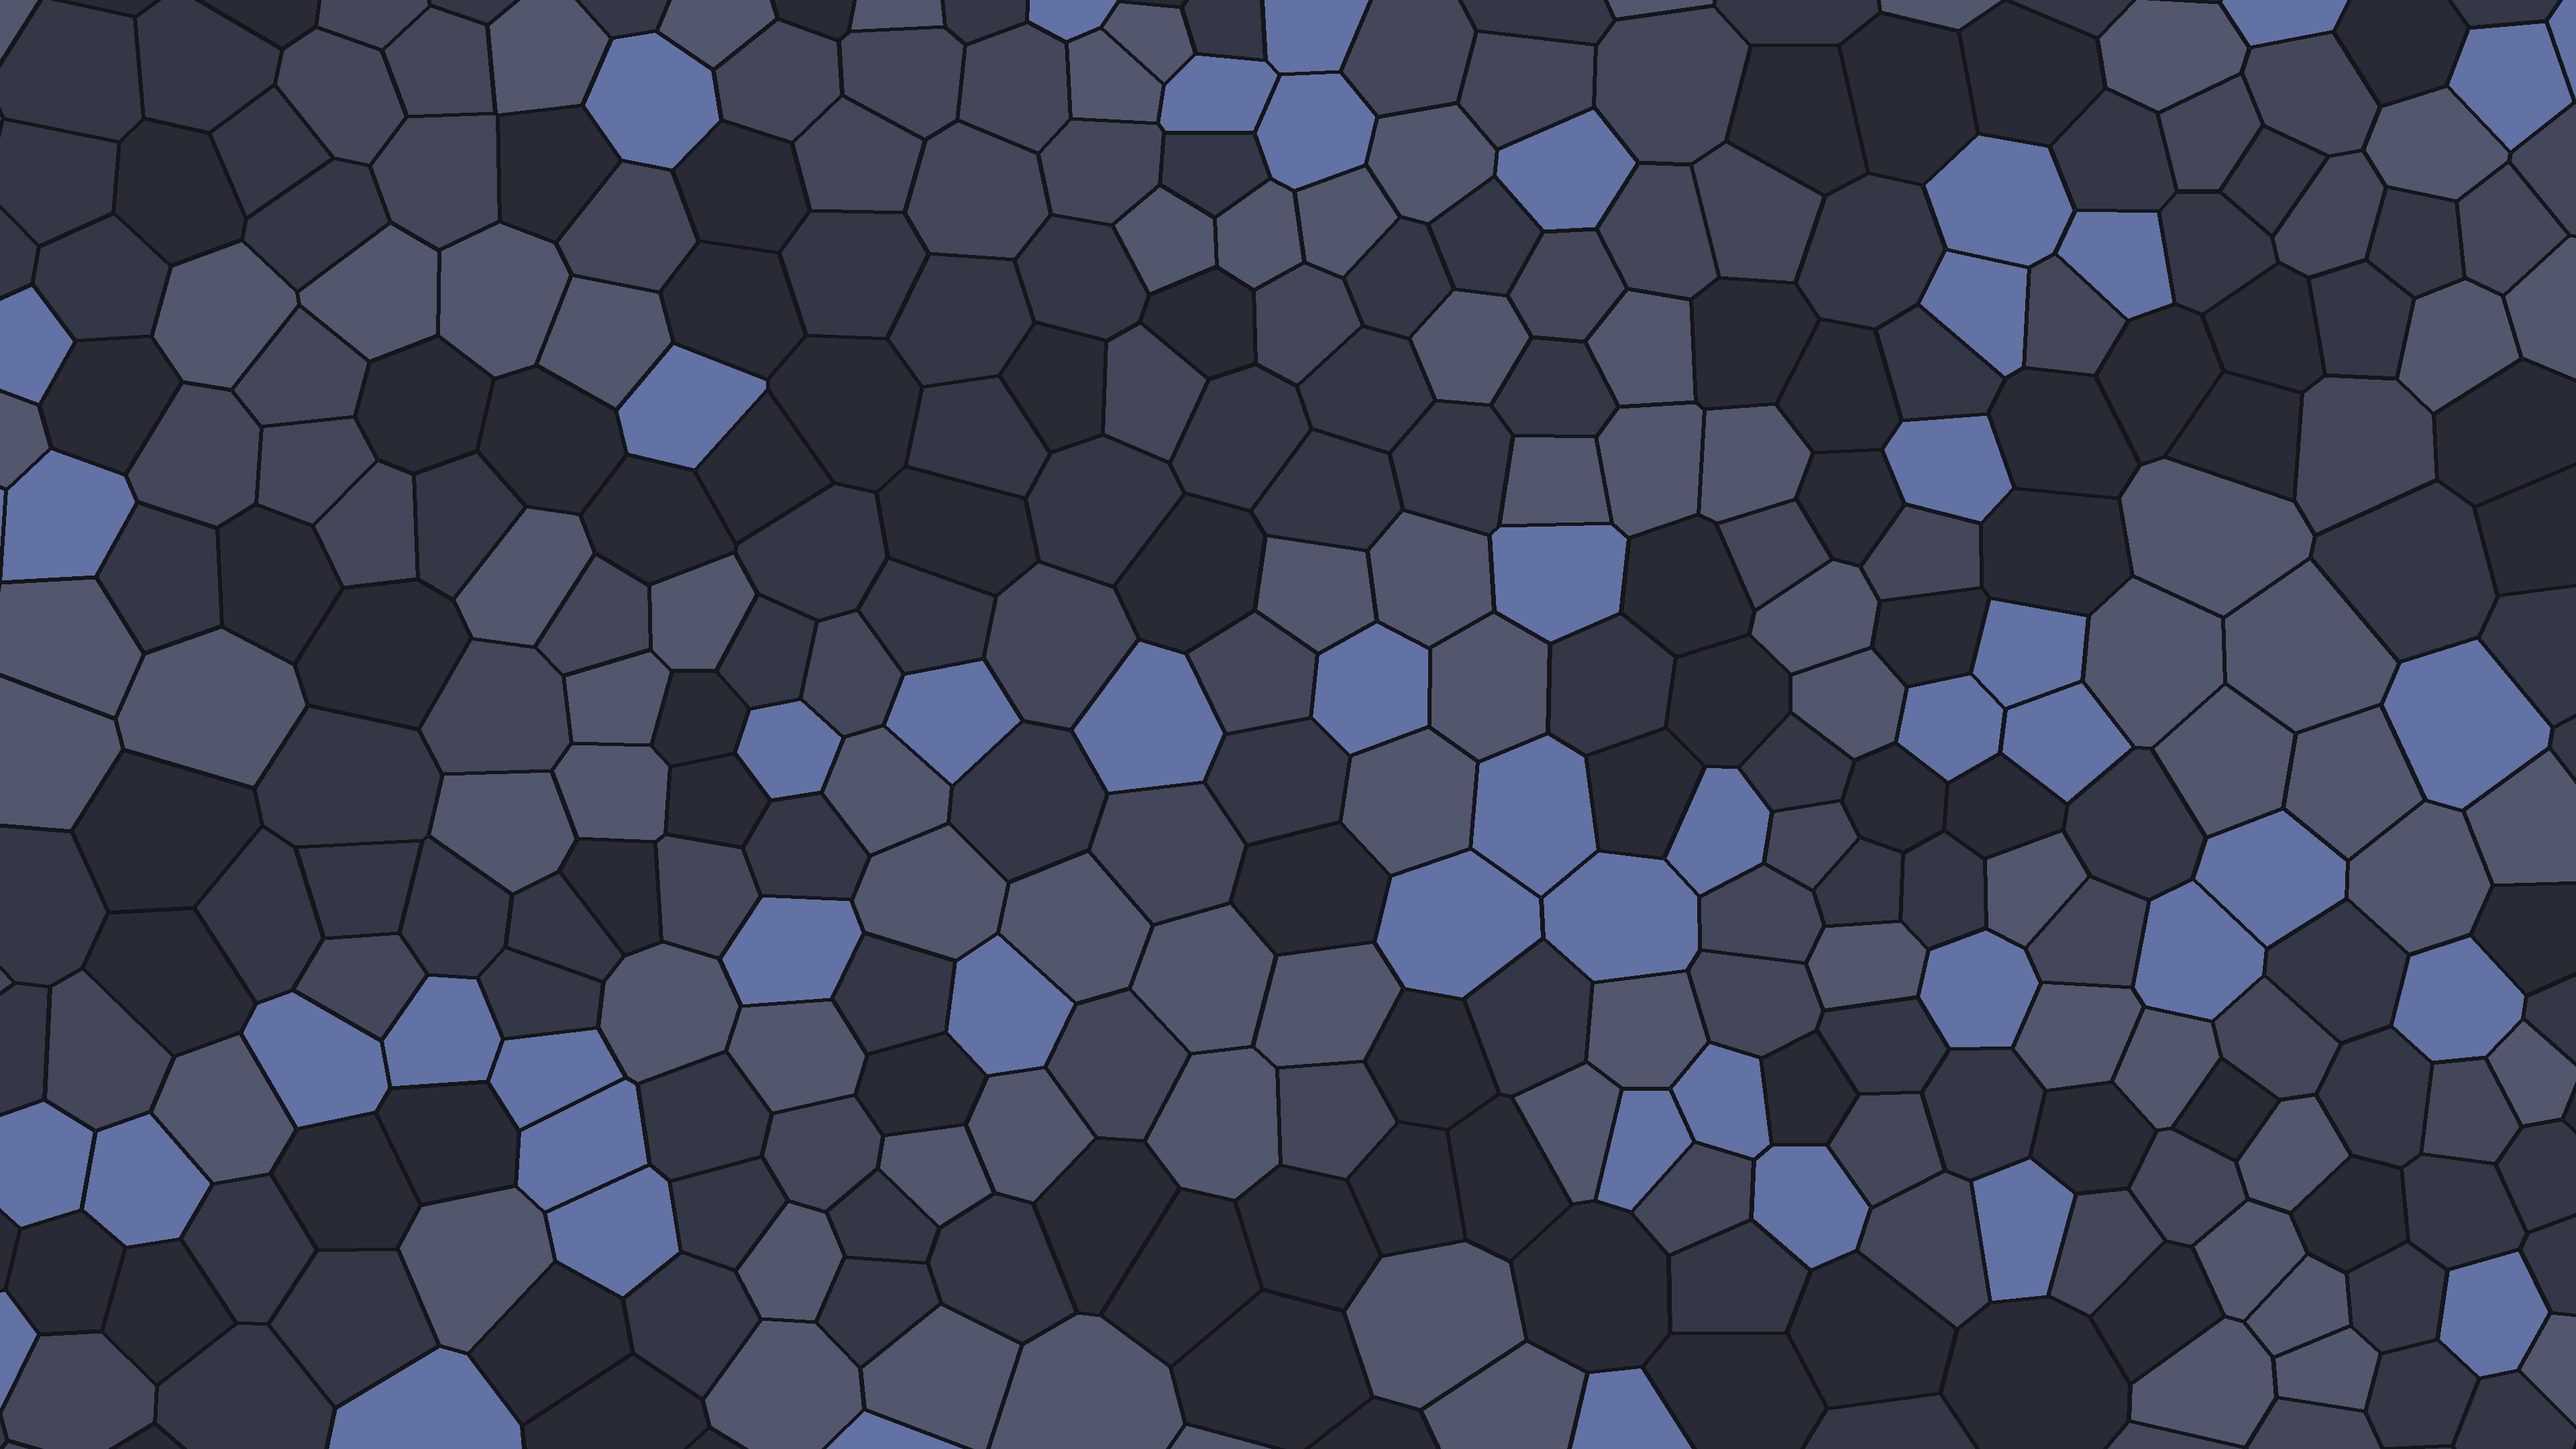
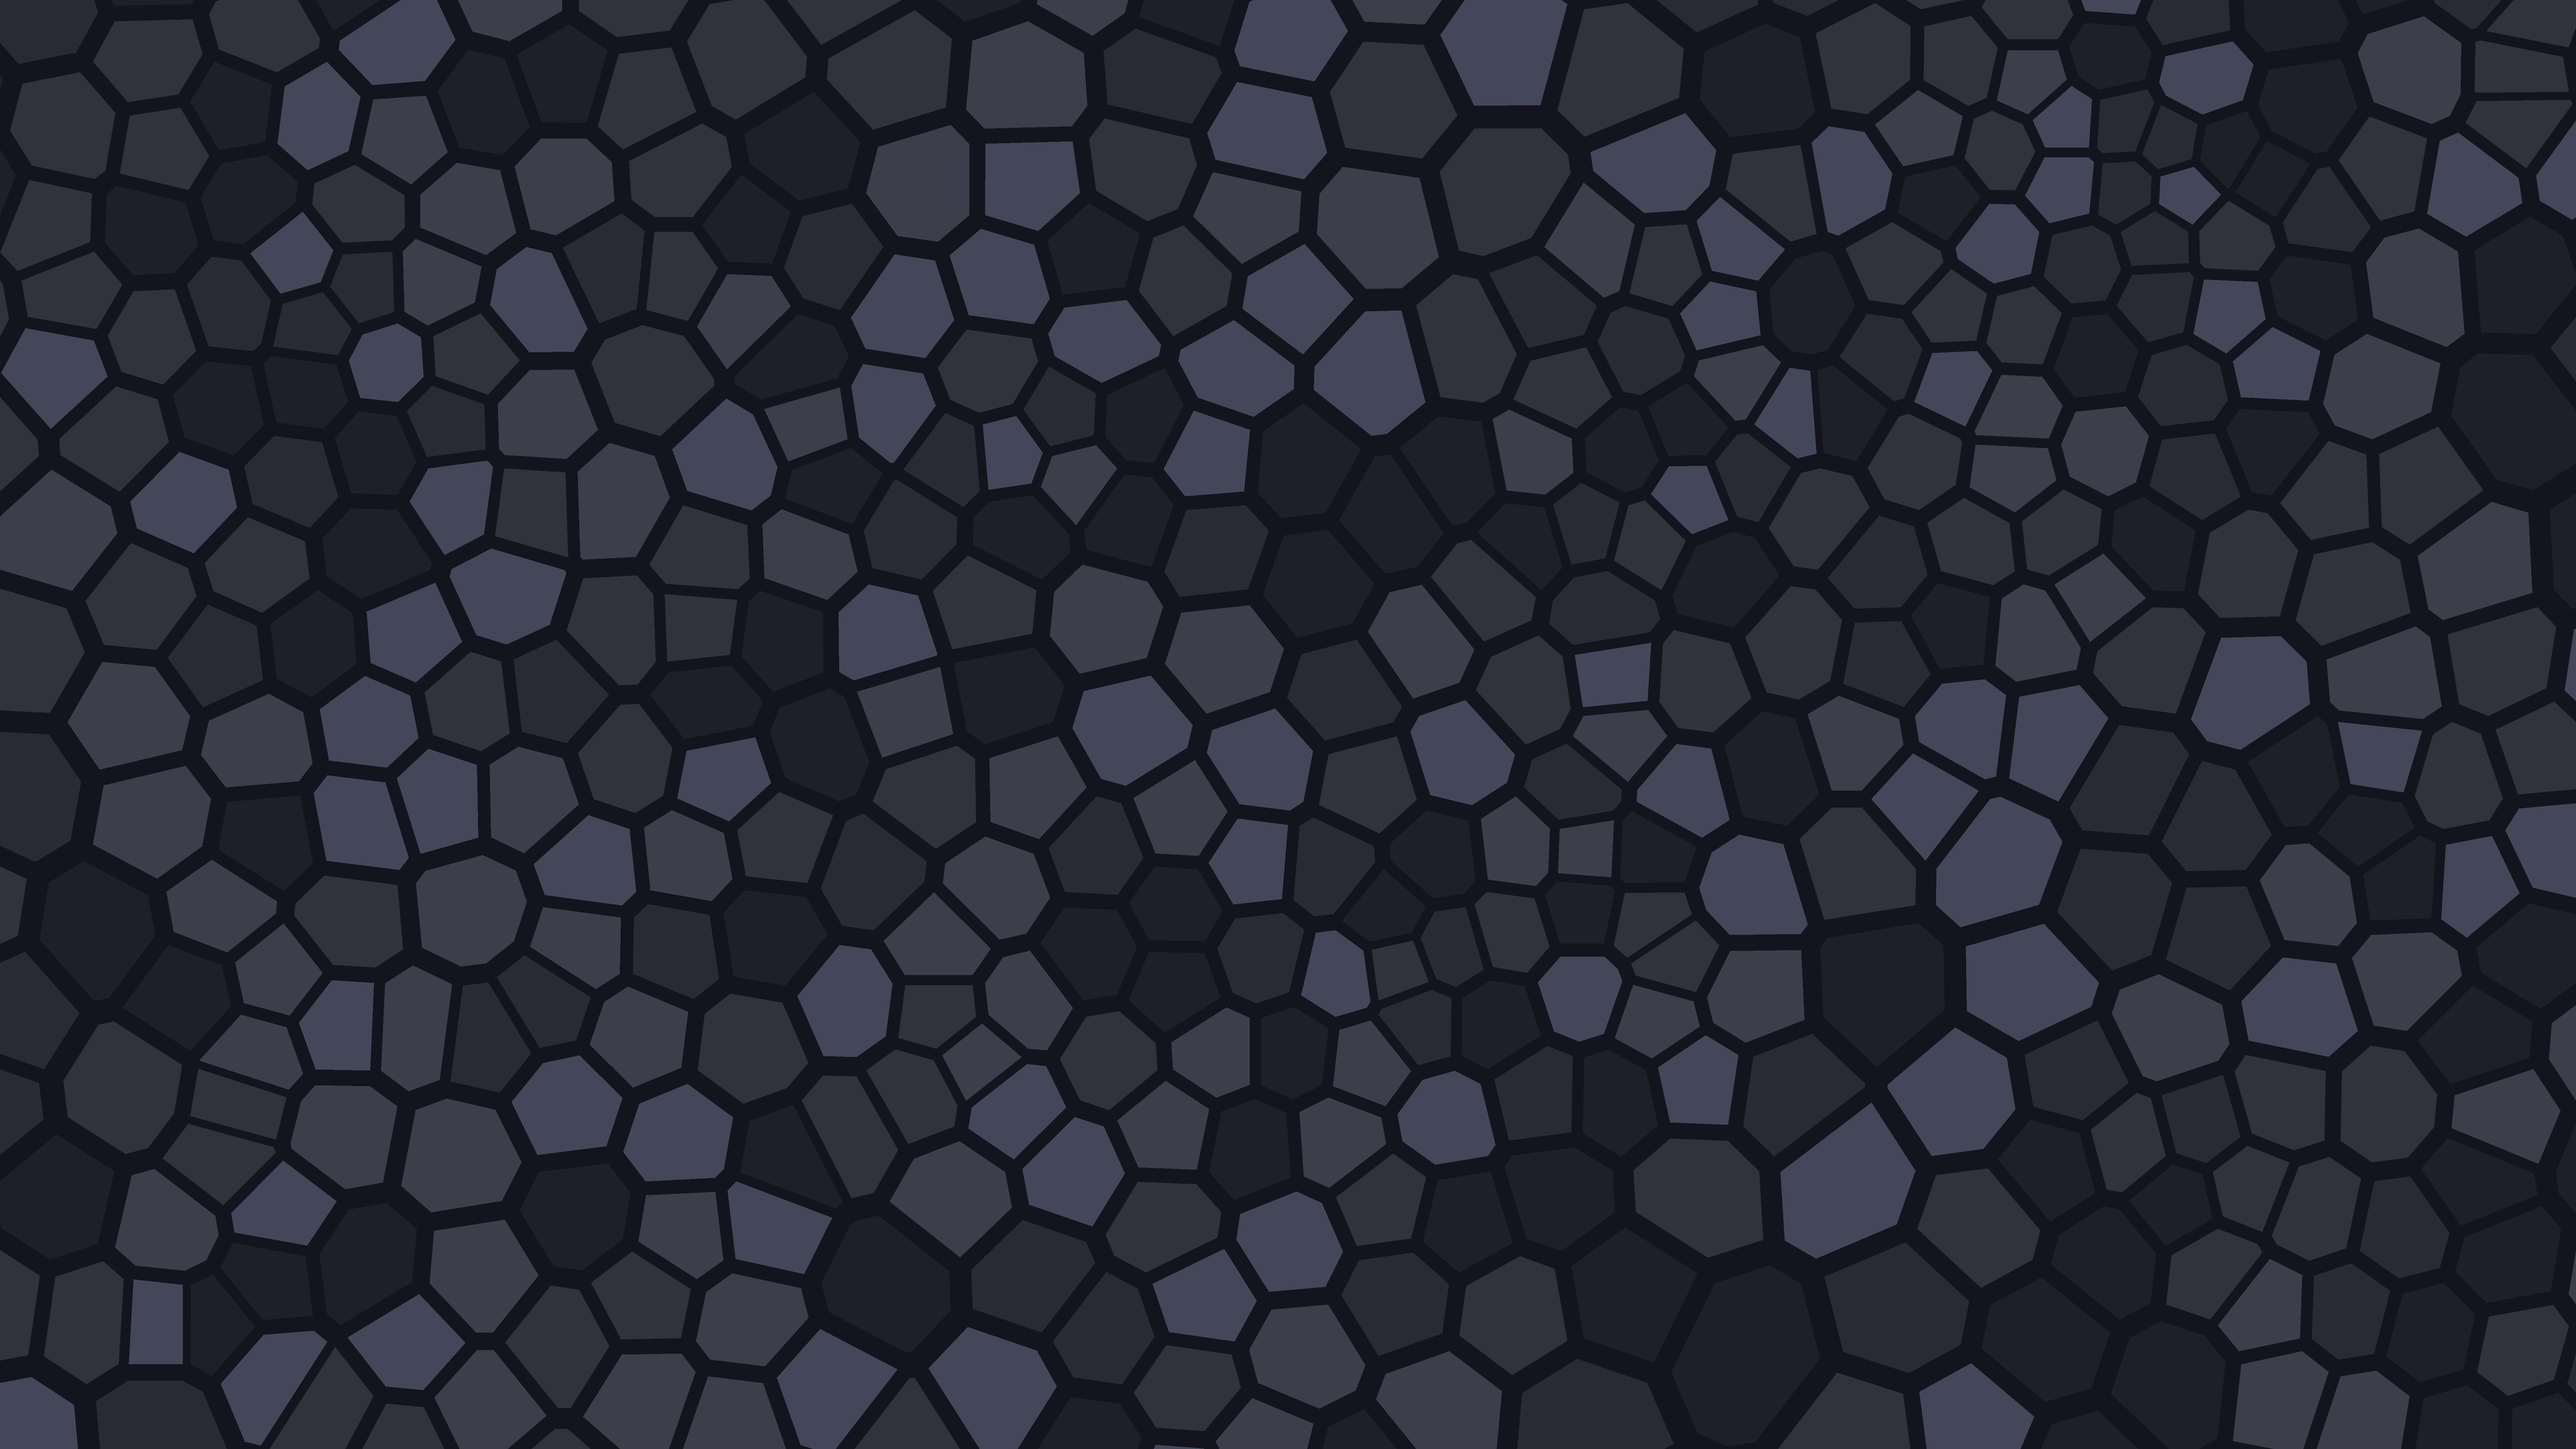
..

diff --git a/utils/wallpaper_gen.py b/utils/wallpaper_gen.py
@@ -6,45 +6,40 @@ from scipy.spatial import Voronoi
 from PIL import Image, ImageDraw
 import random
 
-# --- Configuration ---
+# --- CONFIGURATION ---
 WIDTH = 3840
 HEIGHT = 2160
-NUM_SEEDS = 600
-RELAXATION_ITERATIONS = 5
-PADDING_WIDTH = 6  # Spacing between tiles
-OUTPUT_FILENAME = "dracula_voronoi_tiling.png"
+SCALE_FACTOR = 2  # Render at 2x for anti-aliasing
+NUM_SEEDS = 600   # Density of tiles
+RELAXATION_STEPS = 5 # Higher = more uniform (hexagonal), Lower = more random
+PADDING_RATIO = 0.85 # 1.0 = touching, < 1.0 = gaps
 
-# Dracula-inspired dark grayscale palette
-# Background (Margins)
-COLOR_BG = "#15161A"  # Very dark, almost black for contrast
+# Dracula-ish Grayscale Palette
+# Background (Grout)
+COLOR_BG = (20, 20, 30) 
 
-# 5 Tile Colors (Dark Grayscale with Dracula tint)
+# Tile Colors (Dark, Cool Grays)
 TILE_PALETTE = [
-    "#282a36",  # Dracula Background
-    "#343746",  # Offset 1
-    "#44475a",  # Dracula Current Line
-    "#52576e",  # Offset 2
-    "#6272a4",  # Dracula Comment (Bluish Grey)
+    (40, 42, 54),   # Dracula Background
+    (68, 71, 90),   # Current Line
+    (50, 50, 60),   # Darker Variant
+    (60, 62, 75),   # Mid Variant
+    (30, 31, 40),   # Deep Variant
 ]
 
-def generate_voronoi_diagram(width, height, num_seeds):
+def generate_voronoi_seeds(width, height, num_points, steps):
     """
-    Generates a Voronoi diagram with Lloyd's relaxation for uniformity.
+    Generates points and applies Lloyd's relaxation to regularize them.
+    Simulates surface tension forces in foam.
     """
-    # Create a buffer area to ensure edge tiles are closed
-    # We generate points in a coordinate system slightly larger than the image
-    buffer_x = width * 0.2
-    buffer_y = height * 0.2
-    
-    # Initialize random seeds
-    points = np.random.rand(num_seeds, 2)
-    points[:, 0] = points[:, 0] * (width + 2 * buffer_x) - buffer_x
-    points[:, 1] = points[:, 1] * (height + 2 * buffer_y) - buffer_y
+    # Generate points over a slightly larger area to ensure edges are covered
+    # and to avoid edge effects from the Voronoi algorithm
+    margin = 500
+    points = np.random.rand(num_points, 2)
+    points[:,0] = points[:,0] * (width + 2*margin) - margin
+    points[:,1] = points[:,1] * (height + 2*margin) - margin
 
-    # Lloyd's Relaxation: Iteratively move points to the centroid of their region
-    # This regularizes the cell sizes, making them "roughly the same size"
-    # while maintaining a non-periodic, organic structure.
-    for _ in range(RELAXATION_ITERATIONS):
+    for _ in range(steps):
         vor = Voronoi(points)
         new_points = []
         for i, region_index in enumerate(vor.point_region):
@@ -55,65 +50,68 @@ def generate_voronoi_diagram(width, height, num_seeds):
             
             # Get vertices for this region
             polygon = [vor.vertices[i] for i in region]
-            poly_arr = np.array(polygon)
             
-            # Calculate centroid
+            # Calculate centroid of the polygon
+            poly_arr = np.array(polygon)
             centroid = np.mean(poly_arr, axis=0)
             new_points.append(centroid)
         points = np.array(new_points)
-
-    # Final Voronoi computation
+        
     return Voronoi(points)
 
-def draw_tiling(vor, width, height):
+def shrink_polygon(vertices, factor):
     """
-    Draws the Voronoi regions onto a PIL image.
+    Shrinks a polygon towards its centroid to create padding.
     """
-    # Create image with background color (this serves as the margin)
-    img = Image.new("RGB", (width, height), COLOR_BG)
-    draw = ImageDraw.Draw(img)
-
-    for region_index in vor.point_region:
-        region = vor.regions[region_index]
-        
-        # Skip incomplete regions (usually at the infinite boundary)
-        if -1 in region or len(region) == 0:
-            continue
-        
-        polygon = [tuple(vor.vertices[i]) for i in region]
-        
-        # Check if polygon is roughly within bounds to avoid drawing useless off-screen geometry
-        # (Simple bounding box check)
-        poly_arr = np.array(polygon)
-        if (np.all(poly_arr[:, 0] < -500) or np.all(poly_arr[:, 0] > width + 500) or
-            np.all(poly_arr[:, 1] < -500) or np.all(poly_arr[:, 1] > height + 500)):
-            continue
-
-        # Pick a random color from the palette
-        fill_color = random.choice(TILE_PALETTE)
-        
-        # Draw the polygon.
-        # We simulate padding by drawing the polygon filled, and then drawing a 
-        # thick outline in the background color.
-        
-        # 1. Draw the actual colored tile
-        draw.polygon(polygon, fill=fill_color)
-        
-        # 2. Draw the stroke (margin) in background color
-        draw.line(polygon + [polygon[0]], fill=COLOR_BG, width=PADDING_WIDTH)
-
-    return img
+    arr = np.array(vertices)
+    centroid = np.mean(arr, axis=0)
+    return centroid + (arr - centroid) * factor
 
 def main():
-    print("Generating geometry...")
-    vor = generate_voronoi_diagram(WIDTH, HEIGHT, NUM_SEEDS)
+    # Setup high-res canvas
+    rw, rh = WIDTH * SCALE_FACTOR, HEIGHT * SCALE_FACTOR
+    img = Image.new("RGB", (rw, rh), COLOR_BG)
+    draw = ImageDraw.Draw(img)
+
+    print(f"Generating physics-inspired tiling ({WIDTH}x{HEIGHT})...")
     
-    print("Rendering image...")
-    image = draw_tiling(vor, WIDTH, HEIGHT)
+    # Generate Tiling
+    vor = generate_voronoi_seeds(rw, rh, NUM_SEEDS, RELAXATION_STEPS)
+
+    # Draw Polygons
+    for region_index in vor.point_region:
+        region = vor.regions[region_index]
+        if -1 in region or len(region) == 0:
+            continue
+            
+        vertices = [vor.vertices[i] for i in region]
+        
+        # Check if polygon is roughly within bounds (optimization)
+        v_arr = np.array(vertices)
+        if np.all(v_arr[:,0] < -500) or np.all(v_arr[:,0] > rw + 500):
+            continue
+        if np.all(v_arr[:,1] < -500) or np.all(v_arr[:,1] > rh + 500):
+            continue
+
+        # Apply padding
+        shrunk_vertices = shrink_polygon(vertices, PADDING_RATIO)
+        
+        # Convert to list of tuples for PIL
+        poly_tuples = [tuple(v) for v in shrunk_vertices]
+        
+        # Pick color
+        color = random.choice(TILE_PALETTE)
+        
+        # Draw
+        draw.polygon(poly_tuples, fill=color)
+
+    # Downsample for crisp edges (Lanczos filter)
+    print("Resampling for anti-aliasing...")
+    final_img = img.resize((WIDTH, HEIGHT), resample=Image.Resampling.LANCZOS)
     
-    print(f"Saving to {OUTPUT_FILENAME}...")
-    image.save(OUTPUT_FILENAME)
-    print("Done.")
+    output_filename = "voronoi_dracula.png"
+    final_img.save(output_filename)
+    print(f"Done. Saved to {output_filename}")
 
 if __name__ == "__main__":
     main()
